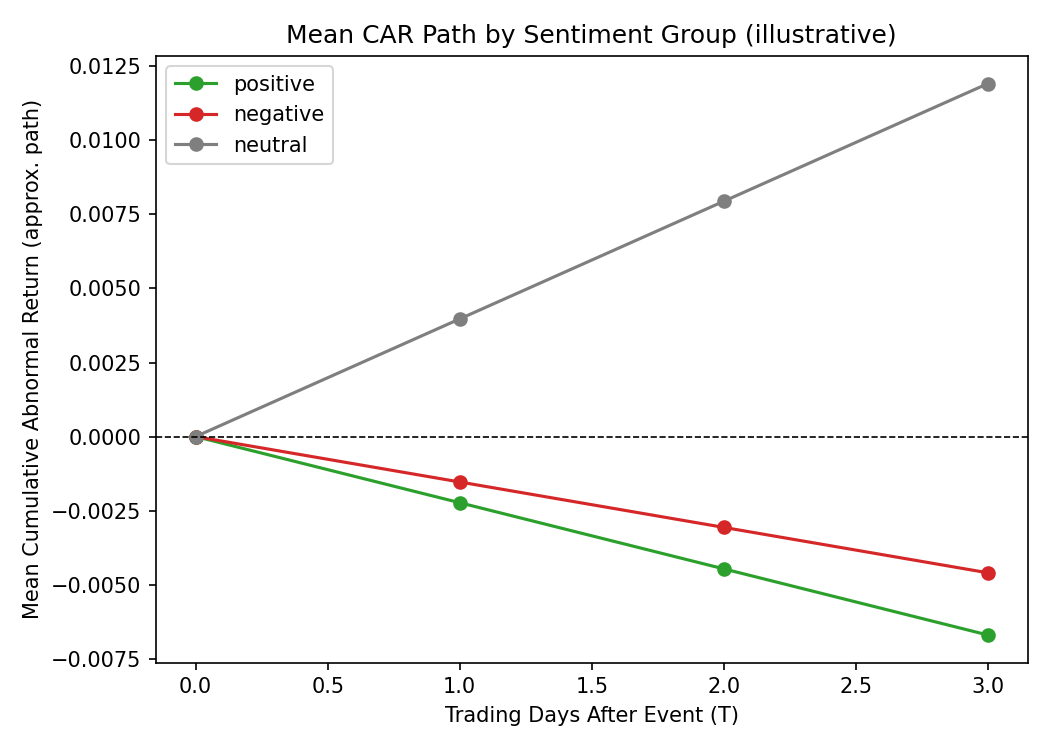
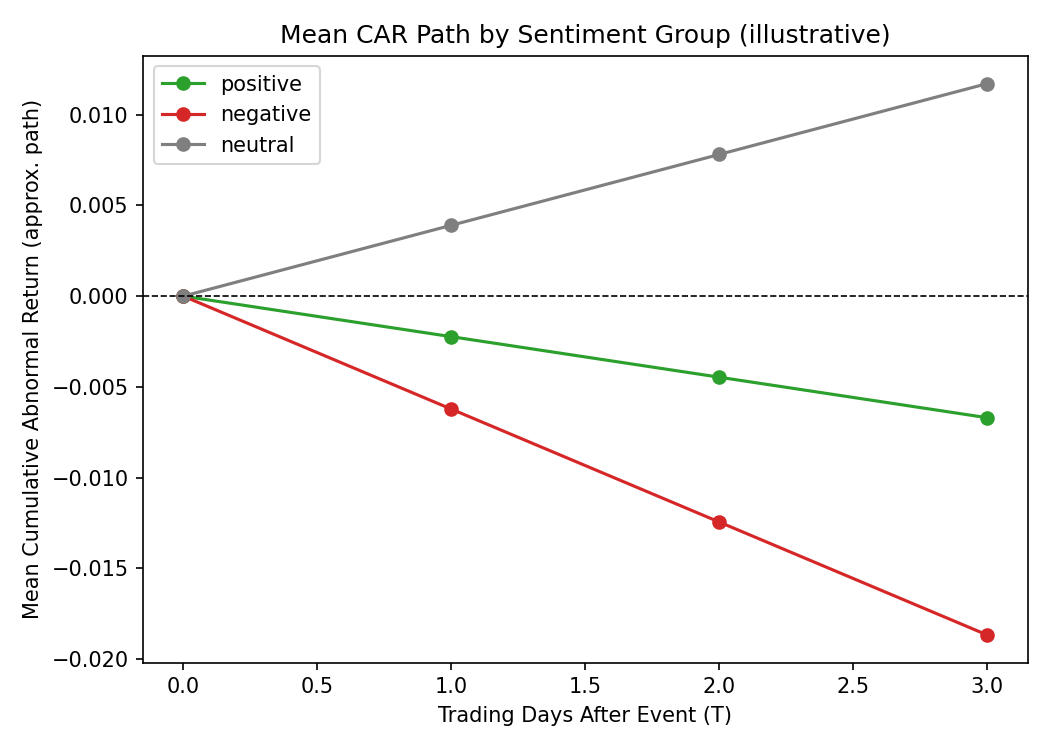
Fix weekend/holiday clustering: aggregate by effective trading day, not raw calendar date

diff --git a/src/event_study.py b/src/event_study.py
@@ -111,10 +111,27 @@ def get_car_for_event(price_df: pd.DataFrame, event_date: pd.Timestamp,
     return float(np.sum(ars))
 
 
-def aggregate_daily_events(sentiment_df: pd.DataFrame) -> pd.DataFrame:
+def snap_to_next_trading_day(event_date: pd.Timestamp, trading_days: pd.DatetimeIndex) -> pd.Timestamp:
     """
-    Aggregates multiple headlines for the SAME (ticker, calendar day) into a
-    single event with one averaged sentiment score.
+    Given a raw event date (which might fall on a weekend/holiday when
+    markets are closed), returns the actual trading day whose subsequent
+    T+1..T+3 window this event will be evaluated against.
+
+    If event_date IS a trading day, returns it unchanged. Otherwise returns
+    the next trading day after it (e.g. a Saturday news item snaps to the
+    following Monday). Returns pd.NaT if there's no future trading day at
+    all (event is beyond the end of available price data).
+    """
+    if event_date in trading_days:
+        return event_date
+    future = trading_days[trading_days > event_date]
+    return future[0] if len(future) > 0 else pd.NaT
+
+
+def aggregate_daily_events(sentiment_df: pd.DataFrame, prices: dict = None) -> pd.DataFrame:
+    """
+    Aggregates multiple headlines for the SAME (ticker, effective trading day)
+    into a single event with one averaged sentiment score.
 
     WHY THIS MATTERS (important methodological fix): if 20 headlines about
     TSLA all land on the same day, they all get the exact same event window
@@ -126,25 +143,63 @@ def aggregate_daily_events(sentiment_df: pd.DataFrame) -> pd.DataFrame:
     number of independent price-move observations is n=1. This is a form of
     pseudo-replication, a well-known statistical error.
 
-    The fix: group by (ticker, date), and represent each group as ONE event
-    with:
-      - sentiment_score = mean of that day's headline sentiment scores
+    IMPORTANT SUBTLETY (weekend/holiday collapsing): grouping by raw calendar
+    date is not quite enough. A Saturday headline and a Sunday headline (and
+    even a late-Friday-after-close headline) all get evaluated against the
+    SAME following Monday's T+1..T+3 window once get_car_for_event() snaps
+    them forward to the next trading day -- markets were simply closed, so
+    there's only one real price reaction to attribute all of them to. If we
+    group by raw calendar date, "Saturday" and "Sunday" become two separate
+    aggregated events that still end up with an identical CAR later,
+    silently reintroducing the same pseudo-replication problem this function
+    exists to fix. So: if `prices` is provided, we snap each headline's date
+    to its EFFECTIVE trading day first, and group by that instead of the raw
+    calendar date -- ensuring one aggregated event per unique price outcome.
+
+    If `prices` is not provided, falls back to grouping by raw calendar date
+    (weekend-collapsing won't be corrected in that case -- pass `prices` for
+    the fully correct behavior).
+
+    The fix: group by (ticker, effective trading day), and represent each
+    group as ONE event with:
+      - sentiment_score = mean of that group's headline sentiment scores
       - confidence = mean confidence (used only for reporting/filtering context;
         the confidence filter should be applied BEFORE this aggregation so it
         still operates on individual headline confidence)
-      - label = majority label among that day's headlines (ties broken toward
-        'neutral' as the conservative choice)
-      - n_headlines = how many headlines contributed to this day's aggregate
+      - label = majority label among that group's headlines (ties broken
+        toward 'neutral' as the conservative choice)
+      - n_headlines = how many headlines contributed to this event's aggregate
         (kept in the output so you can report/inspect it, and can be used to
         weight or filter events that had very high headline volume, e.g. a
         major earnings day getting extra coverage)
 
     This should be called AFTER filter_by_confidence() and BEFORE CAR is
-    computed, since CAR only needs to be computed once per (ticker, day)
-    rather than once per headline -- also a nice performance win.
+    computed, since CAR only needs to be computed once per (ticker, effective
+    trading day) rather than once per headline -- also a nice performance win.
     """
     df = sentiment_df.copy()
-    df["event_date"] = pd.to_datetime(df["datetime"]).dt.normalize()
+    df["raw_date"] = pd.to_datetime(df["datetime"]).dt.normalize()
+
+    if prices is not None:
+        # Snap each headline's date to its effective trading day, per-ticker,
+        # since different tickers can (rarely) have slightly different trading
+        # calendars (e.g. different exchange holidays).
+        effective_dates = []
+        for _, row in df.iterrows():
+            ticker = row["ticker"]
+            if ticker in prices:
+                trading_days = prices[ticker].index
+                snapped = snap_to_next_trading_day(row["raw_date"], trading_days)
+            else:
+                snapped = row["raw_date"]  # no price data to snap against; fall back to raw date
+            effective_dates.append(snapped)
+        df["event_date"] = effective_dates
+        before_drop = len(df)
+        df = df.dropna(subset=["event_date"])  # drop events with no future trading day at all
+        if len(df) < before_drop:
+            print(f"[event_study] Dropped {before_drop - len(df)} events with no future trading day available")
+    else:
+        df["event_date"] = df["raw_date"]
 
     def majority_label(labels):
         counts = labels.value_counts()
@@ -217,7 +272,7 @@ def build_event_study_dataset(sentiment_df: pd.DataFrame, prices: dict,
         sentiment_df = filter_by_confidence(sentiment_df)
 
     if aggregate_same_day:
-        sentiment_df = aggregate_daily_events(sentiment_df)
+        sentiment_df = aggregate_daily_events(sentiment_df, prices=prices)
     else:
         # Ensure a consistent schema either way -- add n_headlines=1 when
         # aggregation is skipped, so downstream code / CSVs have the same columns.

diff --git a/diagnose_clustering.py b/diagnose_clustering.py
@@ -1,0 +1,37 @@
+import sys
+sys.path.insert(0, 'src')
+import pandas as pd
+import glob
+import os
+
+DATASET_PATH = 'data/processed/event_study_dataset.csv'
+df = pd.read_csv(DATASET_PATH, parse_dates=['datetime'])
+
+print("All AAPL events, sorted by date:")
+aapl = df[df['ticker'] == 'AAPL'].sort_values('datetime')
+print(aapl[['datetime', 'CAR', 'n_headlines']])
+print()
+
+# Load AAPL price data to see what trading days actually exist near these event dates
+prices = pd.read_csv('data/raw/prices_AAPL.csv', index_col='Date', parse_dates=True)
+print(f"AAPL price data available: {prices.index.min().date()} to {prices.index.max().date()}")
+print(f"Last 10 trading days in price data:")
+print(prices.index[-10:].to_list())
+print()
+
+print("For each AAPL event date, showing which trading day it snaps to and the T+1..T+3 window used:")
+for _, row in aapl.iterrows():
+    event_date = pd.Timestamp(row['datetime']).normalize()
+    if event_date not in prices.index:
+        future = prices.index[prices.index > event_date]
+        snapped = future[0] if len(future) > 0 else None
+    else:
+        snapped = event_date
+
+    if snapped is not None and snapped in prices.index:
+        loc = prices.index.get_loc(snapped)
+        window_dates = prices.index[loc+1:loc+4].to_list() if loc+3 < len(prices) else "INSUFFICIENT FUTURE DATA"
+    else:
+        window_dates = "EVENT DATE NOT FOUND / NO FUTURE DATA"
+
+    print(f"  Event date: {event_date.date()}  ->  snapped to trading day: {snapped}  ->  window: {window_dates}")
